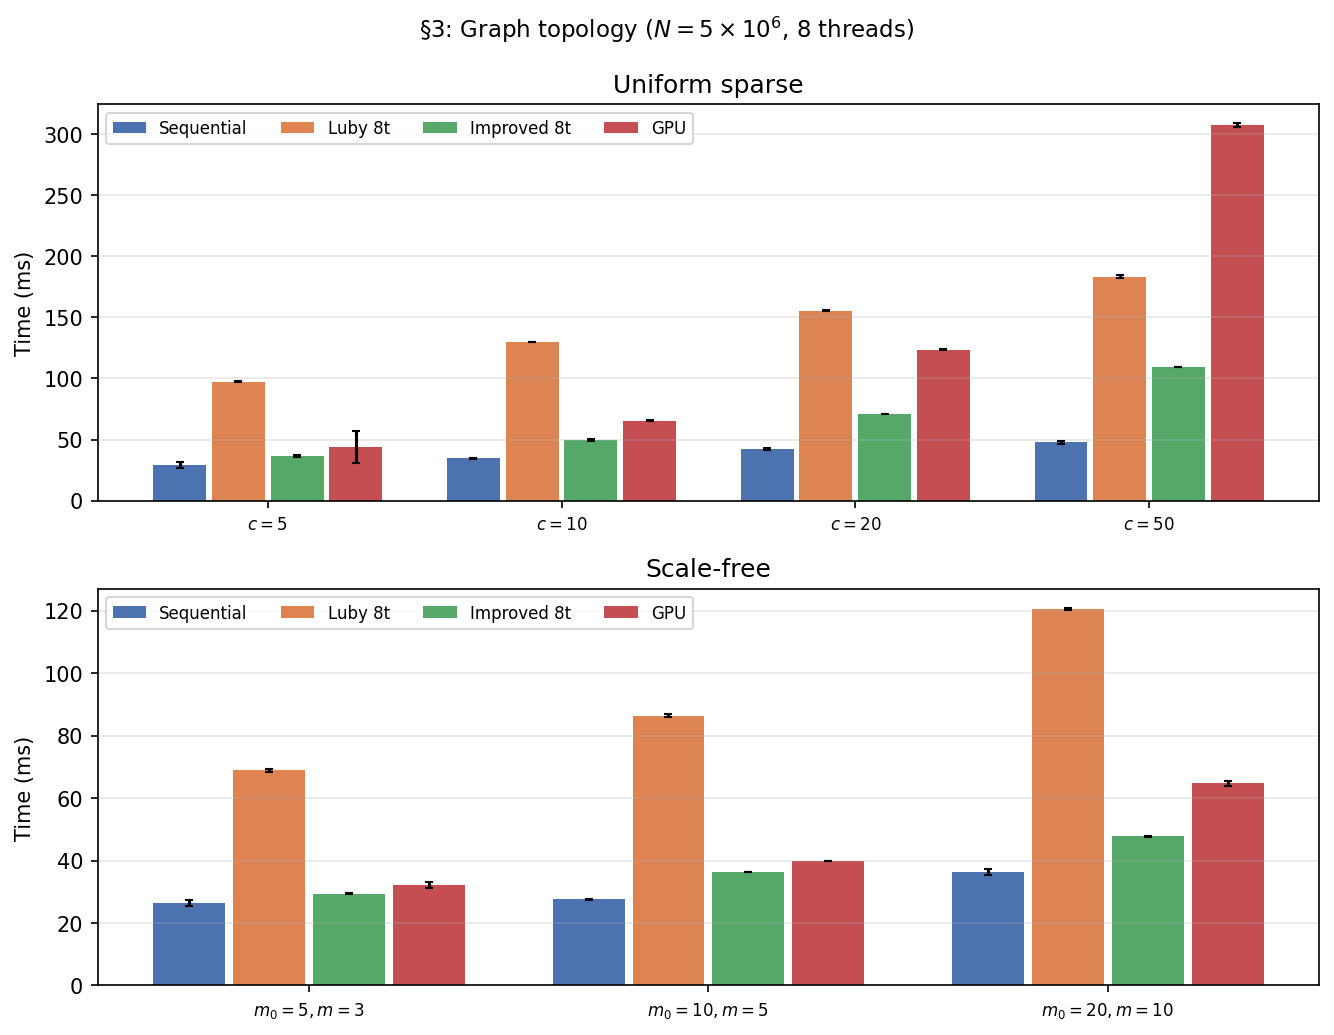
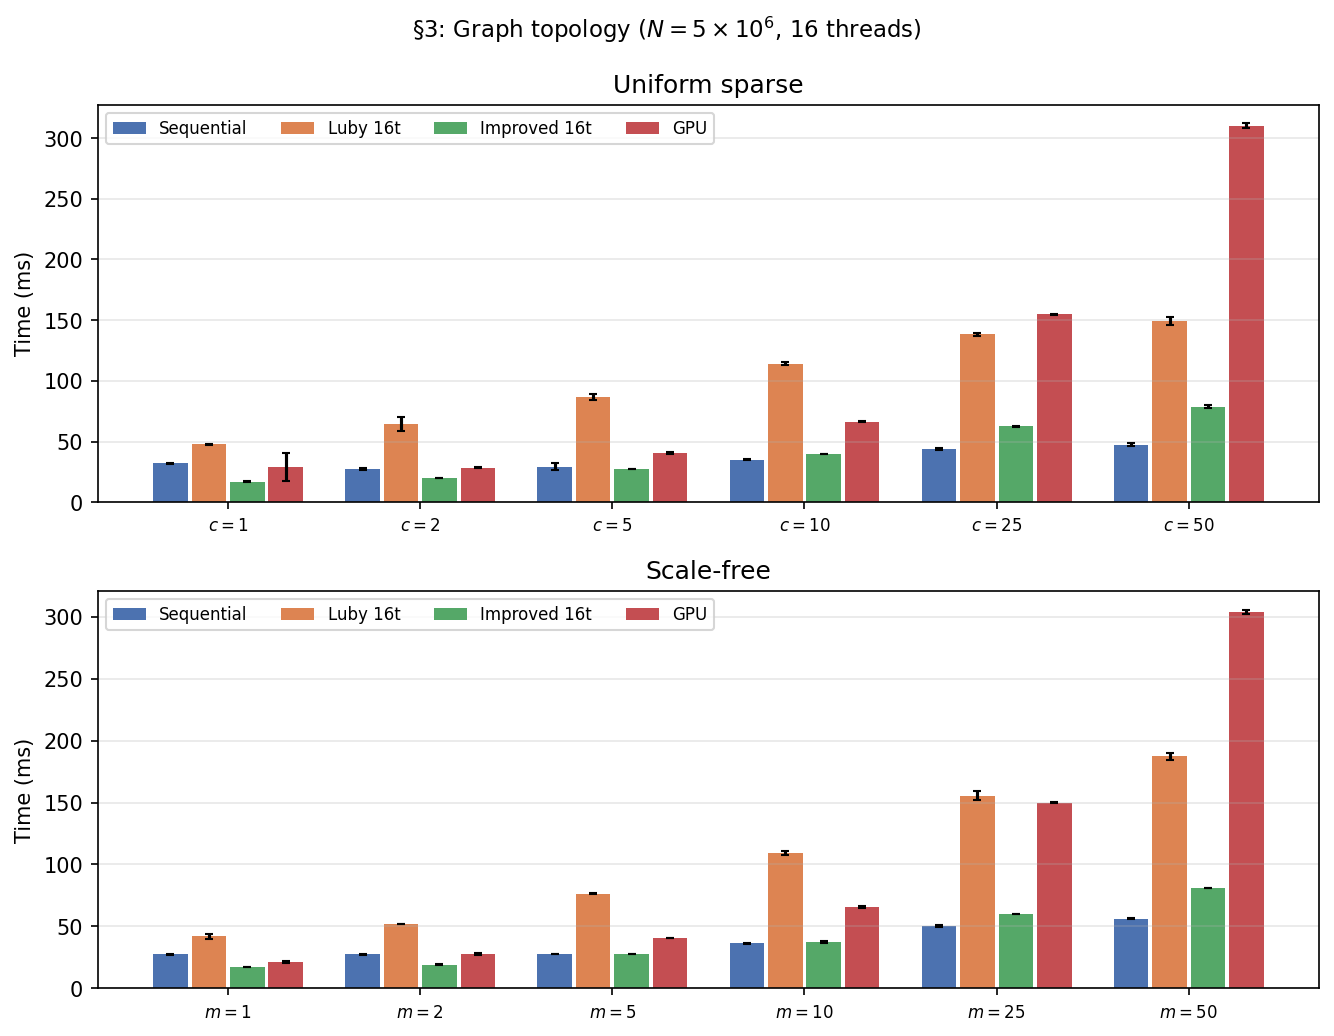
Update datapoints and graphs for better granularity

diff --git a/report/report.tex b/report/report.tex
@@ -179,7 +179,7 @@ Scale-free graphs are characterized by a power-law degree distribution, $P(k) \s
 In this section, we present the performance results for the various implementations. All benchmarks were performed on a machine with an 8-core CPU (16 threads) and a modern GPU.
 
 \subsection{CSR vs Adjacency List Representation}
-We first justify the use of the Compressed Sparse Row (CSR) representation. Table~\ref{tab:csr_vs_adj} compares the execution time of sequential and Luby (8 threads) algorithms using both adjacency list and CSR formats on graphs with $10^6$ nodes.
+We first justify the use of the Compressed Sparse Row (CSR) representation. Table~\ref{tab:csr_vs_adj} compares the execution time of sequential and Luby (16 threads) algorithms using both adjacency list and CSR formats on graphs with $10^6$ nodes.
 
 \begin{table}[H]
     \centering
@@ -207,7 +207,7 @@ As expected, the CSR format consistently outperforms the standard adjacency list
 \end{figure}
 
 \subsection{Scaling with Graph Size}
-We evaluated the algorithms on graphs of varying sizes, ranging from $10^5$ to $10^7$ nodes. The results are summarized in Table~\ref{tab:size_scaling} and visualized in Figure~\ref{fig:section1}.
+We evaluated the algorithms on graphs of varying sizes, ranging from $10^5$ to $2 \cdot 10^7$ nodes. The results are summarized in Table~\ref{tab:size_scaling} and visualized in Figure~\ref{fig:section1}.
 
 \begin{table}[H]
     \centering
@@ -215,19 +215,23 @@ We evaluated the algorithms on graphs of varying sizes, ranging from $10^5$ to $
     \label{tab:size_scaling}
     \begin{tabular}{l r r r r}
         \toprule
-        $N$ & Sequential (ms) & Luby 8 threads (ms) & Luby Improved 8 threads (ms) & Luby GPU (ms) \\
+        $N$ & Sequential (ms) & Luby 16 threads (ms) & Luby Improved 16 threads (ms) & Luby GPU (ms) \\
         \midrule
         \multicolumn{5}{c}{\textit{Uniform Sparse ($c=10$)}} \\
-        $10^5$            & 0.4865   & 1.1145    & 0.8423   & 5.4047   \\
-        $10^6$            & 4.6451   & 15.7862   & 8.6779   & 11.8825  \\
-        $5 \cdot 10^6$    & 34.6515  & 129.2530  & 50.0654  & 65.3489  \\
-        $10^7$            & 74.8600  & 305.2400  & 103.2810 & 142.1110 \\
+        $10^5$            & 0.4200   & 0.9648    & 0.6378   & 5.2152   \\
+        $5 \cdot 10^5$    & 2.3098   & 5.9953    & 2.9498   & 6.0805   \\
+        $10^6$            & 4.9068   & 14.9088   & 6.7064   & 12.1489  \\
+        $5 \cdot 10^6$    & 34.6755  & 117.7570  & 40.6200  & 66.4825  \\
+        $10^7$            & 76.3226  & 272.5280  & 80.8898  & 143.4330 \\
+        $2 \cdot 10^7$    & 157.3900 & 653.1750  & 179.6590 & 308.3750 \\
         \midrule
         \multicolumn{5}{c}{\textit{Scale-Free ($m=5$)}} \\
-        $10^5$            & 0.4444   & 0.9787    & 0.7381   & 0.9870   \\
-        $10^6$            & 4.6395   & 11.4371   & 6.6997   & 7.8233   \\
-        $5 \cdot 10^6$    & 27.6094  & 87.2163   & 37.6498  & 39.9078  \\
-        $10^7$            & 60.4546  & 205.5430  & 78.0189  & 86.2039  \\
+        $10^5$            & 0.5210   & 0.8095    & 0.5394   & 1.0483   \\
+        $5 \cdot 10^5$    & 2.5875   & 4.2381    & 2.3223   & 4.1411   \\
+        $10^6$            & 5.0946   & 10.2670   & 4.7528   & 8.2497   \\
+        $5 \cdot 10^6$    & 28.5915  & 77.3555   & 27.3052  & 40.8443  \\
+        $10^7$            & 60.2904  & 178.0620  & 57.1455  & 86.3274  \\
+        $2 \cdot 10^7$    & 128.5800 & 436.5480  & 128.6640 & 181.9970 \\
         \bottomrule
     \end{tabular}
 \end{table}
@@ -258,12 +262,21 @@ The degree distribution significantly impacts parallel performance. Table~\ref{t
     \label{tab:topology}
     \begin{tabular}{l r r r r}
         \toprule
-        Topology & Sequential (ms) & Luby 8 threads (ms) & Improved 8 threads (ms) & GPU (ms) \\
+        Topology & Sequential (ms) & Luby 16 threads (ms) & Improved 16 threads (ms) & GPU (ms) \\
         \midrule
-        Uniform $c=5$  & 29.2268 & 97.3504  & 36.3811 & 43.9092  \\
-        Uniform $c=50$ & 47.5770 & 183.4820 & 109.2180 & 307.4230 \\
-        SF $m=3$       & 26.4737 & 68.8808  & 29.3945  & 32.1546  \\
-        SF $m=10$      & 27.5487 & 86.3354  & 36.2805  & 39.8725  \\
+        Uniform $c=1$  & 31.8961 & 47.6584  & 16.9344  & 28.9346  \\
+        Uniform $c=2$  & 27.5082 & 64.5012  & 19.9628  & 28.4627  \\
+        Uniform $c=5$  & 29.3123 & 86.6423  & 27.4206  & 40.5110  \\
+        Uniform $c=10$ & 34.8852 & 114.1140 & 39.7831  & 66.2198  \\
+        Uniform $c=25$ & 44.0597 & 138.1760 & 62.4163  & 154.6760 \\
+        Uniform $c=50$ & 47.3772 & 148.9450 & 78.7484  & 310.1740 \\
+        \midrule
+        SF $m=1$       & 27.5367 & 41.9097  & 17.3866  & 21.5663  \\
+        SF $m=2$       & 27.5601 & 51.9279  & 19.1247  & 27.9764  \\
+        SF $m=5$       & 27.9457 & 76.5628  & 27.9953  & 40.4749  \\
+        SF $m=10$      & 36.3662 & 109.5600 & 37.4478  & 65.5914  \\
+        SF $m=25$      & 50.1574 & 155.3150 & 60.0713  & 149.7460 \\
+        SF $m=50$      & 56.2210 & 187.2190 & 80.8886  & 303.7320 \\
         \bottomrule
     \end{tabular}
 \end{table}

diff --git a/plot_benchmarks.py b/plot_benchmarks.py
@@ -16,10 +16,9 @@ DEFAULT_OUT = Path(__file__).resolve().parent / "report" / "figures"
 ALGO_COLORS = {
     "Sequential CSR": "#4C72B0",
     "Sequential": "#4C72B0",
-    "Luby 8t CSR": "#DD8452",
-    "Luby 8t": "#DD8452",
-    "Luby Improved 8t CSR": "#55A868",
-    "Luby Improved 8t CSR": "#55A868",
+    "Luby 16t CSR": "#DD8452",
+    "Luby 16t": "#DD8452",
+    "Luby Improved 16t CSR": "#55A868",
     "Luby GPU CSR": "#C44E52",
 }
 LUBY_COLOR = "#DD8452"
@@ -77,8 +76,8 @@ def plot_section1(df: pd.DataFrame, out_dir: Path) -> None:
         sub = df[df["graph_family"] == family]
         for algo, style in [
             ("Sequential CSR", {"marker": "o", "ls": "-"}),
-            ("Luby 8t CSR", {"marker": "s", "ls": "--"}),
-            ("Luby Improved 8t CSR", {"marker": "^", "ls": "-."}),
+            ("Luby 16t CSR", {"marker": "s", "ls": "--"}),
+            ("Luby Improved 16t CSR", {"marker": "^", "ls": "-."}),
             ("Luby GPU CSR", {"marker": "D", "ls": ":", "color": GPU_COLOR}),
         ]:
             rows = sub[sub["algorithm"] == algo].sort_values("n")
@@ -99,7 +98,7 @@ def plot_section1(df: pd.DataFrame, out_dir: Path) -> None:
         ax.set_title(title)
         ax.legend(fontsize=8)
         ax.grid(True, which="both", alpha=0.3)
-    fig.suptitle("§1: Scaling with $N$ (CSR, 8 threads)", fontsize=11)
+    fig.suptitle("§1: Scaling with $N$ (CSR, 16 threads)", fontsize=11)
     fig.tight_layout()
     save_fig(fig, out_dir, "section1_scaling_n")
 
@@ -160,8 +159,8 @@ def plot_topology(df: pd.DataFrame, out_dir: Path, stem: str, title: str) -> Non
         ("uniform_sparse", "Uniform sparse"),
         ("scale_free", "Scale-free"),
     ]
-    algos = ["Sequential CSR", "Luby 8t CSR", "Luby Improved 8t CSR", "Luby GPU CSR"]
-    short_names = ["Sequential", "Luby 8t", "Improved 8t", "GPU"]
+    algos = ["Sequential CSR", "Luby 16t CSR", "Luby Improved 16t CSR", "Luby GPU CSR"]
+    short_names = ["Sequential", "Luby 16t", "Improved 16t", "GPU"]
     x_offset = [-0.3, -0.1, 0.1, 0.3]
     width = 0.18
 
@@ -203,12 +202,9 @@ def _pretty_label(label: str) -> str:
     if "_c" in label and label.startswith("uniform"):
         c = label.rsplit("_c", 1)[-1]
         return f"$c={c}$"
-    if "m05_m3" in label:
-        return r"$m_0{=}5, m{=}3$"
-    if "m010_m5" in label:
-        return r"$m_0{=}10, m{=}5$"
-    if "m020_m10" in label:
-        return r"$m_0{=}20, m{=}10$"
+    if "_m" in label and label.startswith("scale_free"):
+        m = label.rsplit("_m", 1)[-1]
+        return f"$m={m}$"
     return label
 
 
@@ -249,7 +245,7 @@ def main() -> None:
             s3,
             args.out_dir,
             "section3_topology",
-            "§3: Graph topology ($N=5\\times10^6$, 8 threads)",
+            "§3: Graph topology ($N=5\\times10^6$, 16 threads)",
         )
 
     s4 = load_csv(args.results_dir, "section4_summary")